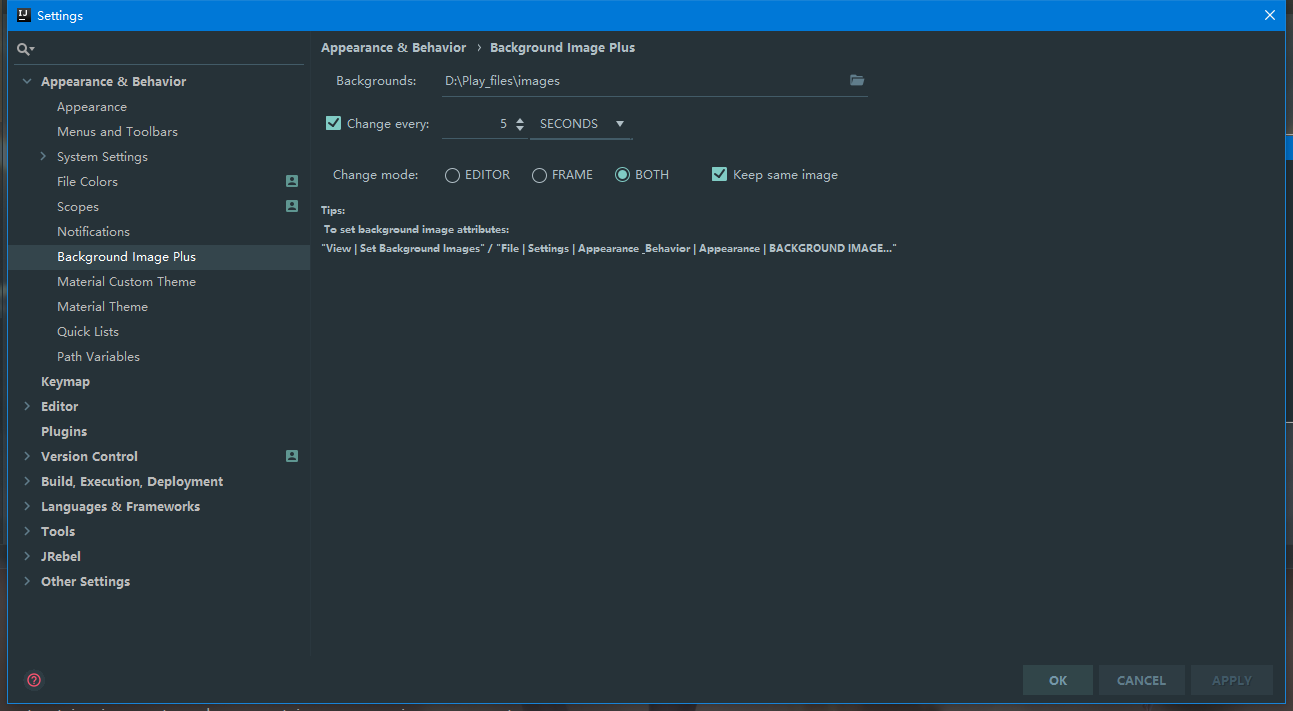
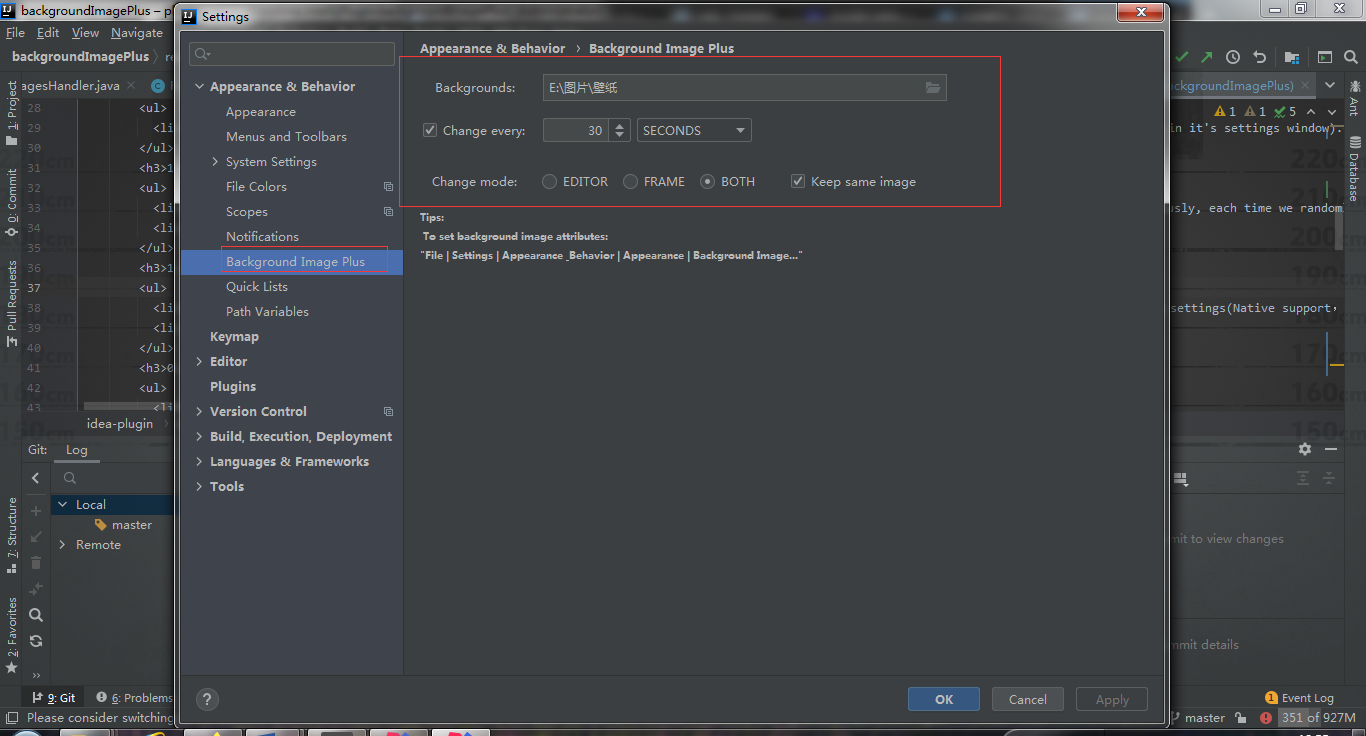
1.0.3 适配IDEA 2020版本（移除View菜单下Set Background Image功能）。 合并插件菜单。 优化”洗牌“功能，启动自动切换。 其它描述信息调整。

Changed region(s): [[0.0, 0.0, 1.0, 1.0]]

diff --git a/src/com/notime/intellijPlugin/backgroundImagePlus/ImagesHandlerSingleton.java b/src/com/notime/intellijPlugin/backgroundImagePlus/ImagesHandlerSingleton.java
@@ -36,7 +36,10 @@ public enum ImagesHandlerSingleton {
     }
     
     public void resetRandomImageList() {
-        randomImageList = lastFolder == null ? null : this.getRandomImageList(lastFolder);
+        if (randomImageList != null) {
+            // 改成只做清空处理，等下次运行时就会重新调用getRandomImageList进行生成的，相当于把所有图片都洗牌了
+            randomImageList.clear();
+        }
     }
     
     private List<String> getRandomImageList(String folder) {
@@ -46,7 +49,7 @@ public enum ImagesHandlerSingleton {
         List<String> images = new ArrayList<>();
         collectImages(images, folder);
         Collections.shuffle(images);
-        return images;
+        return Collections.synchronizedList(images);
     }
     
     private void collectImages(List<String> images, String folder) {

diff --git a/src/com/notime/intellijPlugin/backgroundImagePlus/action/RandomOrderReset.java b/src/com/notime/intellijPlugin/backgroundImagePlus/action/RandomOrderReset.java
@@ -14,10 +14,9 @@ public class RandomOrderReset extends AnAction {
     public void actionPerformed(AnActionEvent e) {
         ImagesHandlerSingleton.instance.resetRandomImageList();
         PropertiesComponent prop = PropertiesComponent.getInstance();
-        if (prop.getBoolean(Settings.AUTO_CHANGE, false)) {
+        if (!prop.getBoolean(Settings.AUTO_CHANGE, false)) {
+            prop.setValue(Settings.AUTO_CHANGE, true);
             BackgroundService.restart();
-        } else {
-            new RandomBackgroundTask().run();
         }
     }
 }
